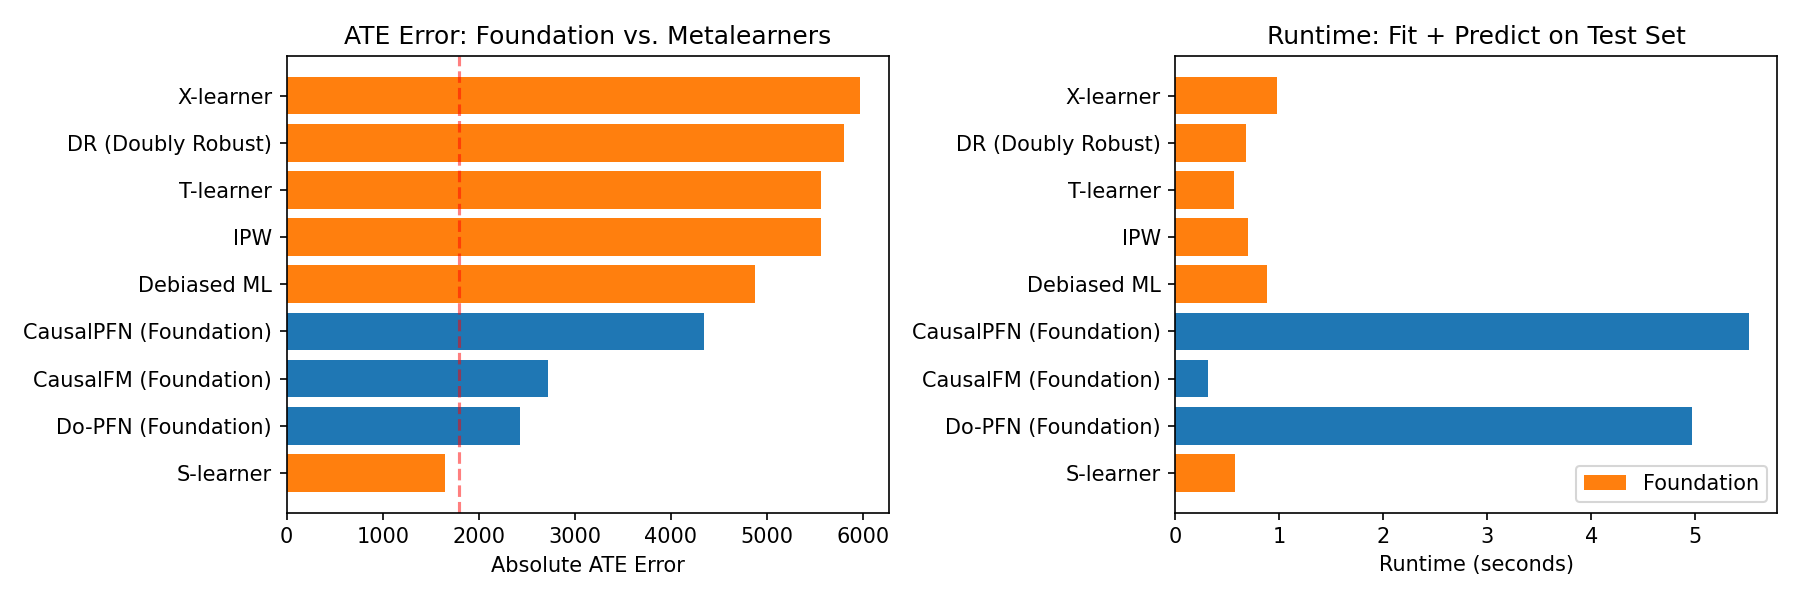
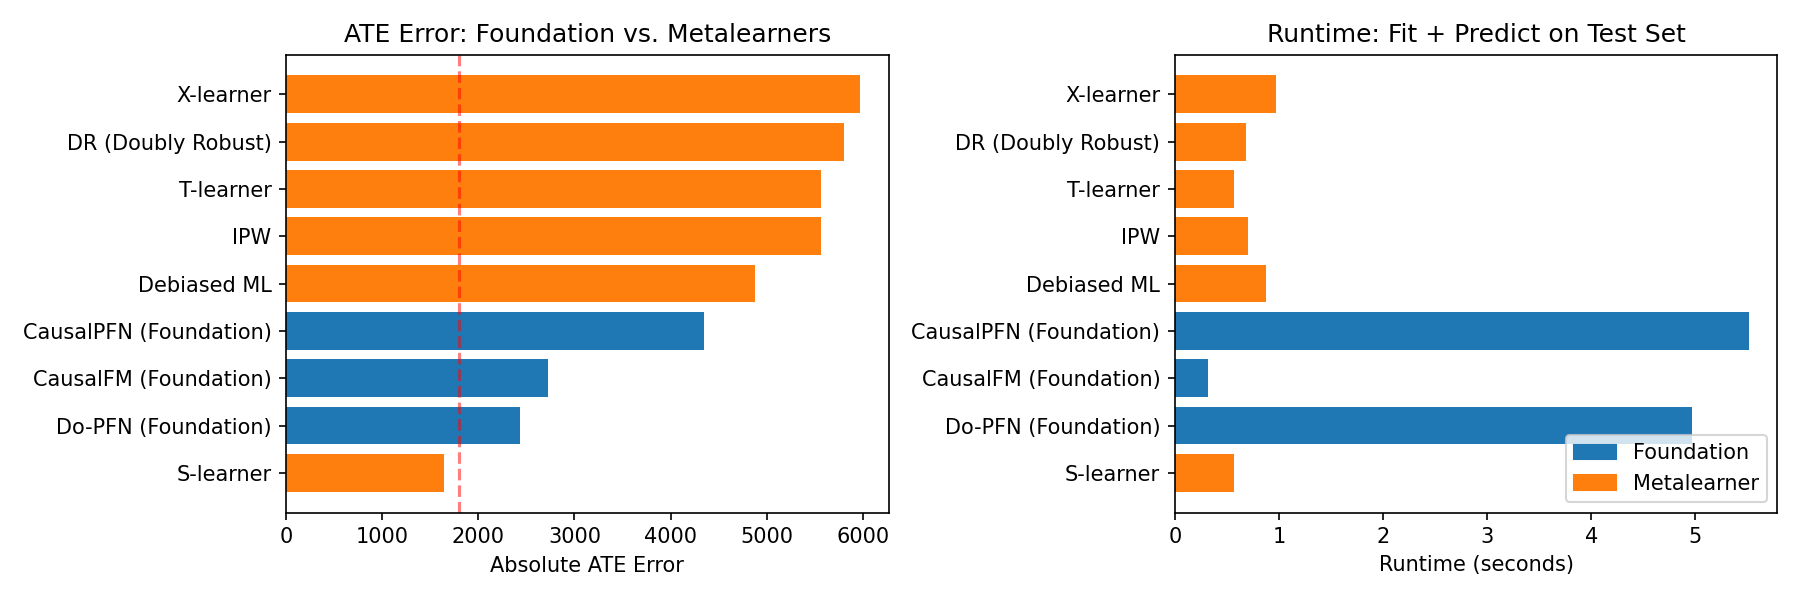
Fix mislabeled legend in Lalonde benchmark plot
plt.legend(['Foundation', 'Metalearner']) was called with plain label
strings, no handles -- matplotlib grabbed whatever single bar-container
artist existed on the current axes and mislabeled it. Verified directly
against the reference image: it picked up S-learner's actual color
(orange, since S-learner sorts first by ATE error) and tagged it
"Foundation," while every foundation-model bar in the chart is actually
blue. Caught by inspection of the reference PNG.

Fixed with explicit mpatches.Patch legend handles matching the real bar
colors, and regenerated the reference image from the same underlying CSV
data so it reflects the corrected legend.

diff --git a/scripts/build_new_notebooks.py b/scripts/build_new_notebooks.py
@@ -330,13 +330,15 @@ print("\\nSaved to lalonde_benchmark.csv")"""),
     md("## 6. Visualization"),
 
     code("""import matplotlib.pyplot as plt
+import matplotlib.patches as mpatches
 
+FOUNDATION_COLOR, METALEARNER_COLOR = '#1f77b4', '#ff7f0e'
 fig, axes = plt.subplots(1, 2, figsize=(12, 4))
 
 # ATE error comparison
 ax = axes[0]
 df_plot = df_sorted.copy()
-colors = ['#1f77b4' if 'Foundation' in name else '#ff7f0e' for name in df_plot['model']]
+colors = [FOUNDATION_COLOR if 'Foundation' in name else METALEARNER_COLOR for name in df_plot['model']]
 ax.barh(range(len(df_plot)), df_plot['ate_abs_error'], color=colors)
 ax.set_yticks(range(len(df_plot)))
 ax.set_yticklabels(df_plot['model'])
@@ -352,7 +354,15 @@ ax.set_yticklabels(df_plot['model'])
 ax.set_xlabel('Runtime (seconds)')
 ax.set_title('Runtime: Fit + Predict on Test Set')
 
-plt.legend(['Foundation', 'Metalearner'], loc='lower right')
+# Explicit legend handles -- a bare `plt.legend([...])` call grabs whatever
+# single bar-container artist happens to exist on the current axes and
+# mislabels it (verified directly: it picked up the first bar's actual
+# color, not a color matching the given label).
+legend_handles = [
+    mpatches.Patch(color=FOUNDATION_COLOR, label='Foundation'),
+    mpatches.Patch(color=METALEARNER_COLOR, label='Metalearner'),
+]
+axes[1].legend(handles=legend_handles, loc='lower right')
 plt.tight_layout()
 plt.savefig("lalonde_benchmark.png", dpi=150)
 plt.show()
